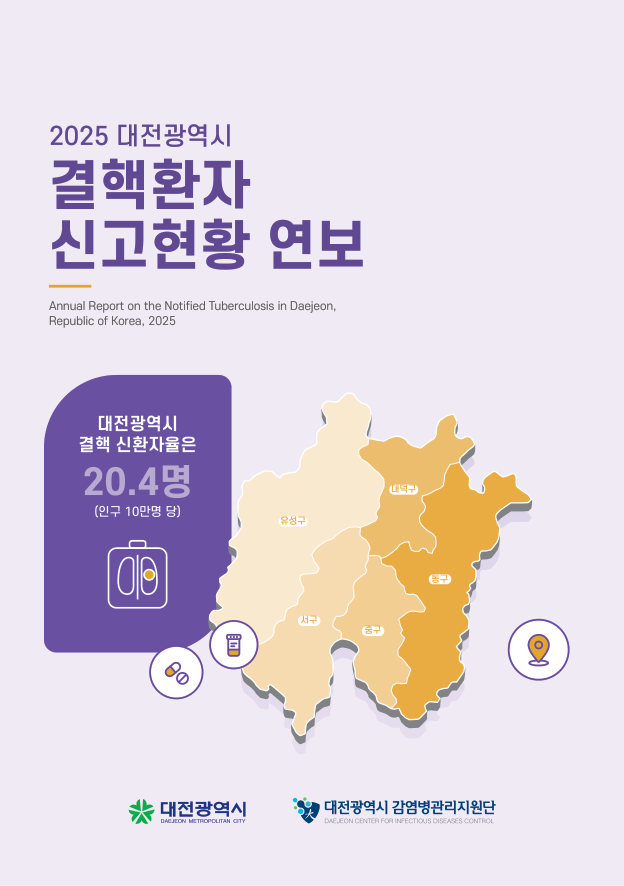
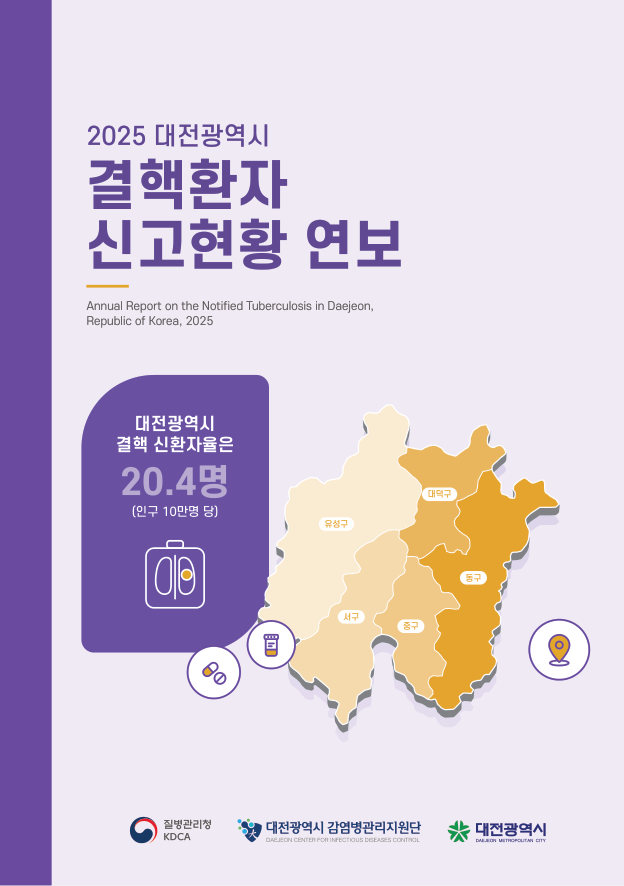
컨펌웹: 제공처 표지 수정 요청 반영
- 결핵연보: 책등·양쪽 표지 색 띠, 앞뒤 질병관리청 로고, 책등 세로쓰기, 지도 진하기 순서(동구>대덕구>중구>서구>유성구), 구 이름표 상자 확대
- 감시연보: 책등 세로쓰기
- 진행 상황: 제공처 확인 사항 회신 완료

Changed region(s): [[0.0, 0.0, 0.9439, 1.0], [0.1827, 0.8837, 0.883, 0.9752]]

diff --git a/index.html b/index.html
@@ -179,7 +179,7 @@ body::before{content:"";position:fixed;inset:0 0 auto;height:env(safe-area-inset
 
 <script>
 // 이미지를 바꿔 올릴 때마다 IMG_V를 올리면 브라우저·CDN 캐시와 상관없이 새 이미지가 보임
-const IMG_V = "20261119-12";
+const IMG_V = "20261119-14";
 const IMG = n => "img/" + n + "?v=" + IMG_V;
 const PLANS = {
   "1": {
@@ -282,8 +282,8 @@ const PROGRESS = {
     { state: "done", title: "1차 시안 (1·2·3안)", date: "11.14–15", note: "표지·내지 디자인 시스템 3가지 방향" },
     { state: "done", title: "결핵연보 수정 원고 검토", date: "11.18", note: "2차 원고 오류 목록 전달" },
     { state: "done", title: "수정안 제작", date: "11.19", note: "이전 디자인 유지 + 컬러 변경, 공통 일러스트, 1안 서체 적용" },
-    { state: "now",  title: "수정안 컨펌", date: "진행 중", note: "결핵연보 표지 확정(11.19) · 감시연보 표지·내지 샘플 확인 중" },
-    { state: "wait", title: "제공처 확인 사항 회신", date: "대기", note: "지도 5개 구 색상, 2025 신환자율(20.4 / 20.3)" },
+    { state: "now",  title: "수정안 컨펌", date: "진행 중", note: "결핵연보 표지 확정 후 수정 요청 반영(색 띠·질병관리청 로고·책등 세로쓰기·지도 진하기), 감시연보 책등 세로쓰기" },
+    { state: "done", title: "제공처 확인 사항 회신", date: "11.19", note: "신환자율 20.4 확정, 지도 진하기 순서 동구>대덕구>중구>서구>유성구" },
     { state: "wait", title: "최종 원고 수령", date: "대기", note: "결핵연보 최종 수정본, 감시연보 원고" },
     { state: "todo", title: "본문 조판", date: "예정", note: "확정 디자인으로 전체 쪽 조판" },
     { state: "todo", title: "교정 (1차·2차)", date: "예정", note: "제공처 교정 반영" },
